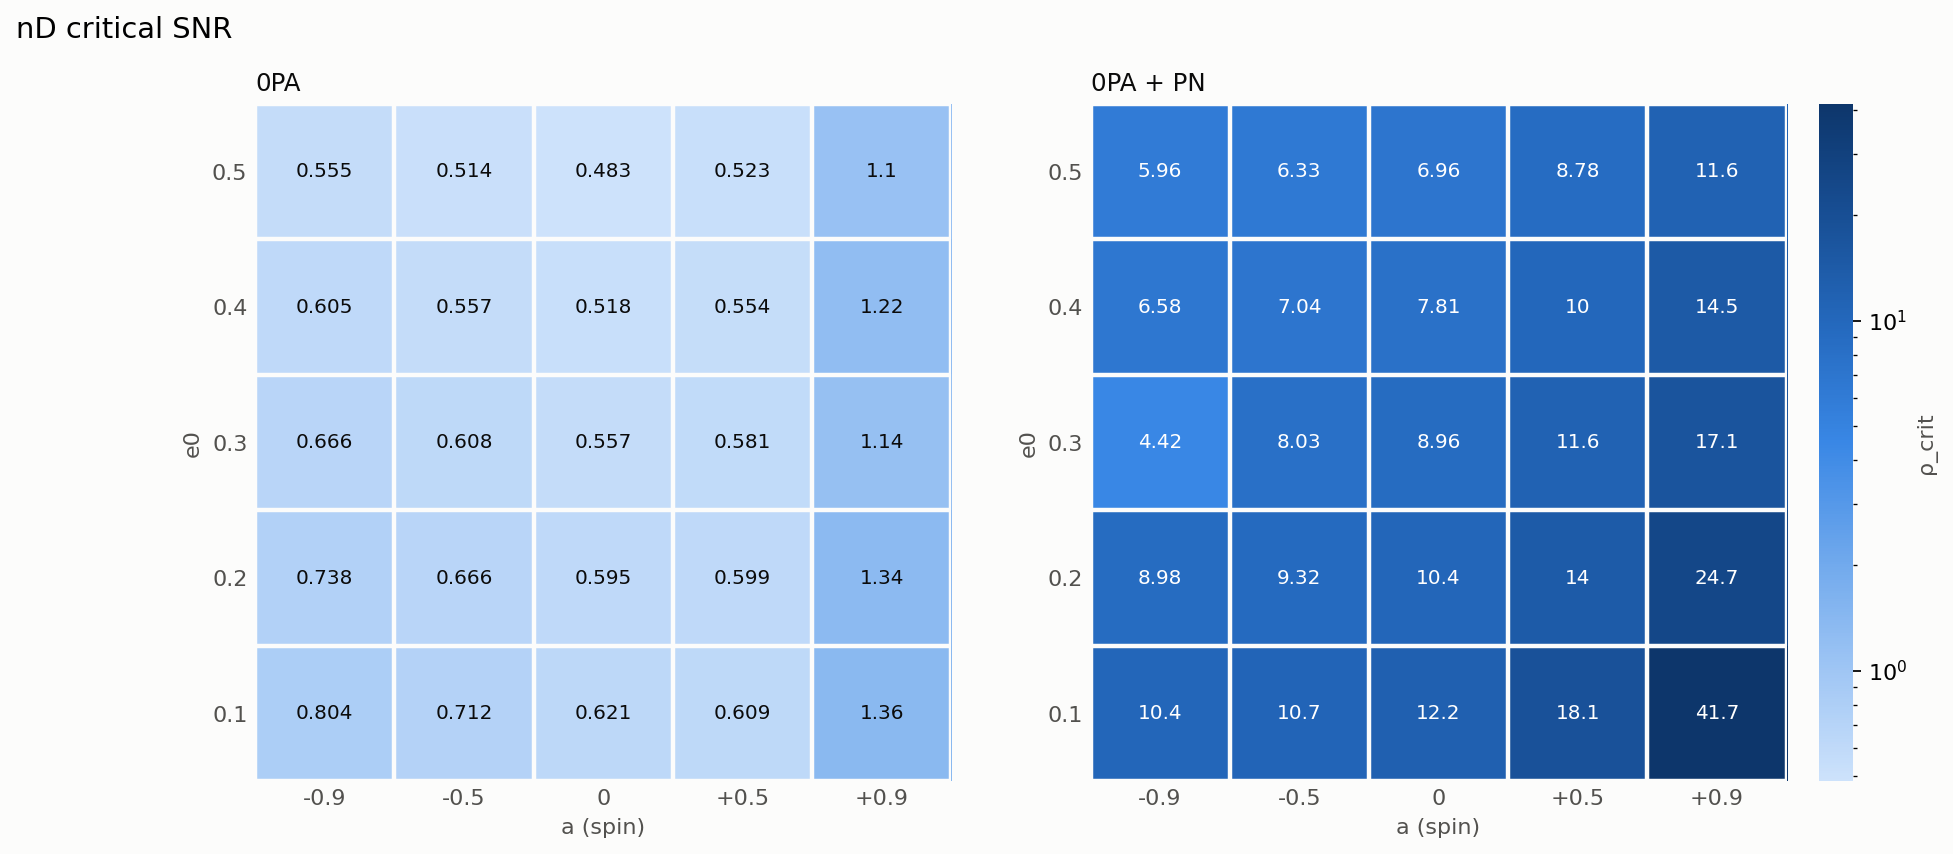
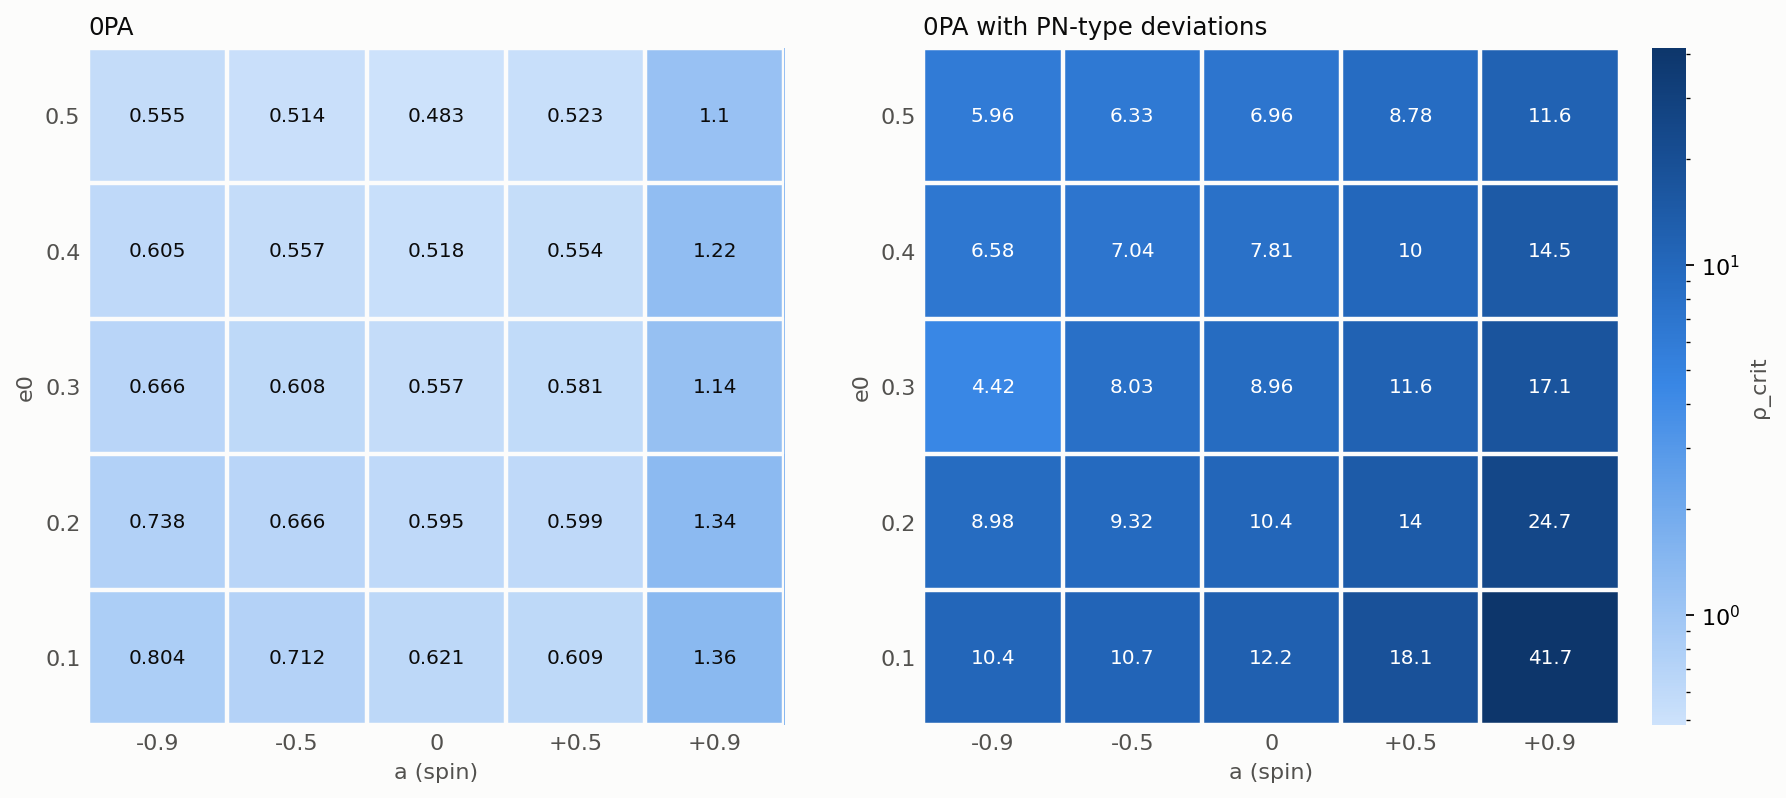
.

diff --git a/EMRI_1PA_PN_DEV/plot_codes/plot_critical_snr_nd.py b/EMRI_1PA_PN_DEV/plot_codes/plot_critical_snr_nd.py
@@ -14,7 +14,7 @@ from common import out_file, SEQ, SURFACE, TEXT_2, grid, ink_on, style_axes
 from plot_critical_snr import CLS, SNR0, VARIANTS, critical
 from bias_data import load_bias
 
-TEMPLATES = (("0pa", "0PA"), ("pn", "0PA + PN"))
+TEMPLATES = (("0pa", "0PA"), ("pn", "0PA with PN-type deviations"))
 
 
 def panel(ax, values, norm, title):
@@ -36,7 +36,6 @@ def figure(pts, crits, cl, variant):
     cb = fig.colorbar(im, ax=axes, fraction=0.03, pad=0.02)
     cb.set_label("ρ_crit", color=TEXT_2)
     cb.outline.set_visible(False)
-    fig.suptitle("nD critical SNR", x=0.01, ha="left", fontsize=13)
     return fig
 
 
